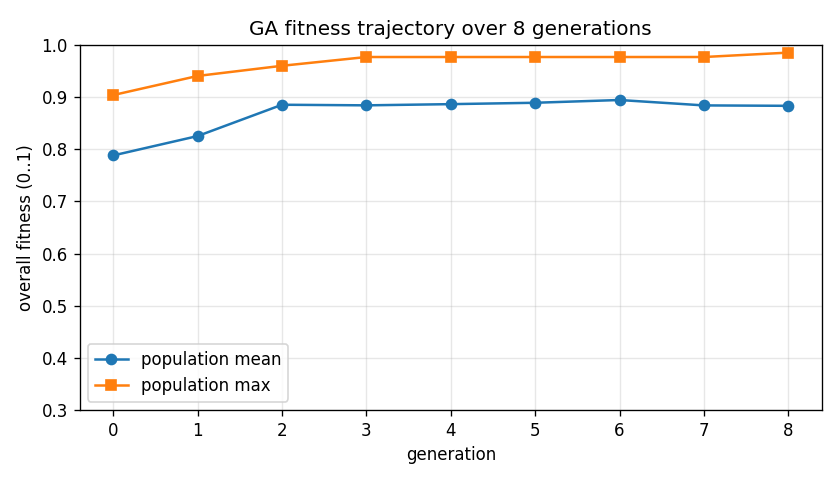
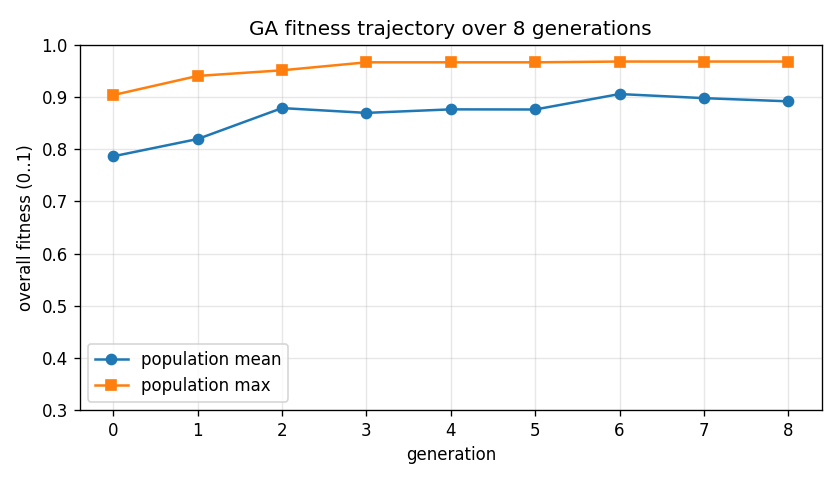
tests: refresh report outputs after import cleanup
Regenerated by the test suite after dropping unused imports — same
27/27 passing, same fitness trajectory (0.79 -> 0.90 mean, 0.90 ->
0.98 max over 8 generations), same 88/91 distinct archetype pairs.

Changed region(s): [[0.1238, 0.1875, 0.9595, 0.3438], [0.2476, 0.0938, 0.9595, 0.1562]]

diff --git a/tools/output/TEST_REPORT.md b/tools/output/TEST_REPORT.md
@@ -1,6 +1,6 @@
 # Bikini GA — Test + Report
 
-Generated at 2026-04-24 01:31:34
+Generated at 2026-04-24 01:42:03
 
 
 ## 1. Sanity — construction, constraints, privacy seeds, patterns
@@ -31,7 +31,7 @@ Generated at 2026-04-24 01:31:34
 
 - ✅ **PASS** — All 200 offspring pass privacy-seed containment
 - ✅ **PASS** — All offspring respect stay-on topology (back coverage, waist span)
-- 📊 Offspring spans **7/12 patterns**, **12/14 archetypes**, **5/6 hardware metals**.
+- 📊 Offspring spans **10/12 patterns**, **12/14 archetypes**, **5/6 hardware metals**.
 
 - ✅ **PASS** — Offspring show multiple patterns
 - ✅ **PASS** — Offspring show multiple archetypes
@@ -48,10 +48,10 @@ Generated at 2026-04-24 01:31:34
 | proportion | 0.708 | 0.210 | 0.067 | 0.998 |
 | harmony | 0.734 | 0.181 | 0.345 | 0.999 |
 | emphasis | 0.784 | 0.218 | 0.550 | 1.000 |
-| rhythm | 0.729 | 0.190 | 0.300 | 1.000 |
-| unity | 0.907 | 0.068 | 0.800 | 0.950 |
+| rhythm | 0.720 | 0.194 | 0.300 | 1.000 |
+| unity | 0.906 | 0.068 | 0.800 | 0.950 |
 | contrast | 0.683 | 0.207 | 0.154 | 0.998 |
-| overall | 0.792 | 0.068 | 0.623 | 0.959 |
+| overall | 0.791 | 0.067 | 0.623 | 0.959 |
 
 
 ![Fitness histograms](test_fitness_histogram.png)
@@ -63,22 +63,22 @@ Generated at 2026-04-24 01:31:34
 
 | gen | mean_fitness | max_fitness |
 |---|---|---|
-| 0 | 0.788 | 0.904 |
-| 1 | 0.825 | 0.940 |
-| 2 | 0.885 | 0.960 |
-| 3 | 0.884 | 0.977 |
-| 4 | 0.886 | 0.977 |
-| 5 | 0.889 | 0.977 |
-| 6 | 0.894 | 0.977 |
-| 7 | 0.884 | 0.977 |
-| 8 | 0.883 | 0.985 |
+| 0 | 0.786 | 0.904 |
+| 1 | 0.819 | 0.940 |
+| 2 | 0.879 | 0.951 |
+| 3 | 0.870 | 0.966 |
+| 4 | 0.876 | 0.966 |
+| 5 | 0.876 | 0.966 |
+| 6 | 0.906 | 0.968 |
+| 7 | 0.898 | 0.968 |
+| 8 | 0.892 | 0.968 |
 
 
 ![Fitness trajectory](test_fitness_trajectory.png)
 
 
-- ✅ **PASS** — Mean fitness improved: 0.788 -> 0.883
-- ✅ **PASS** — Max fitness non-decreasing: 0.904 -> 0.985
+- ✅ **PASS** — Mean fitness improved: 0.786 -> 0.892
+- ✅ **PASS** — Max fitness non-decreasing: 0.904 -> 0.968
 
 ## 5. Style archetype gallery — one 3D render per style_archetype
 
